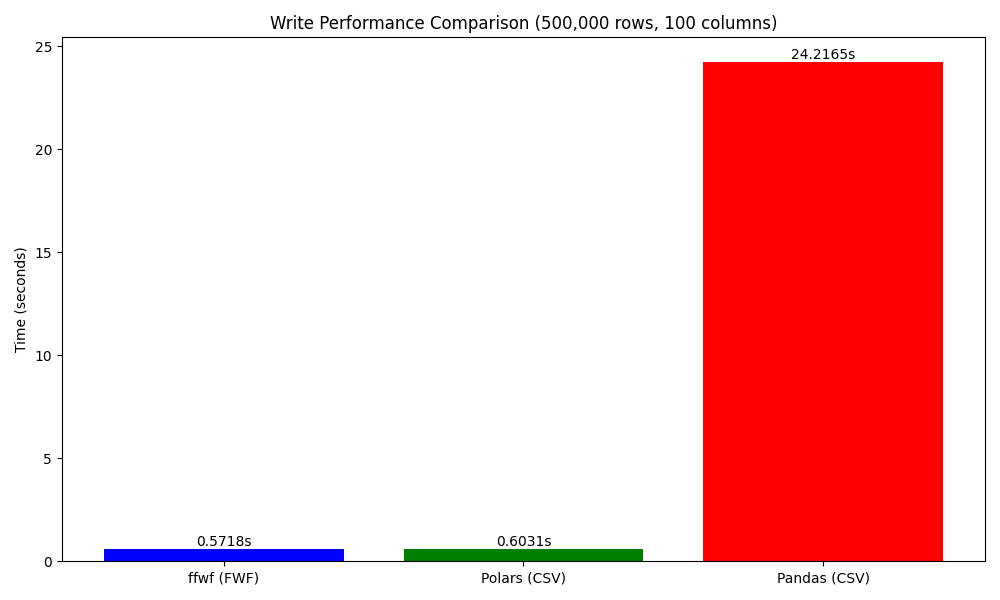
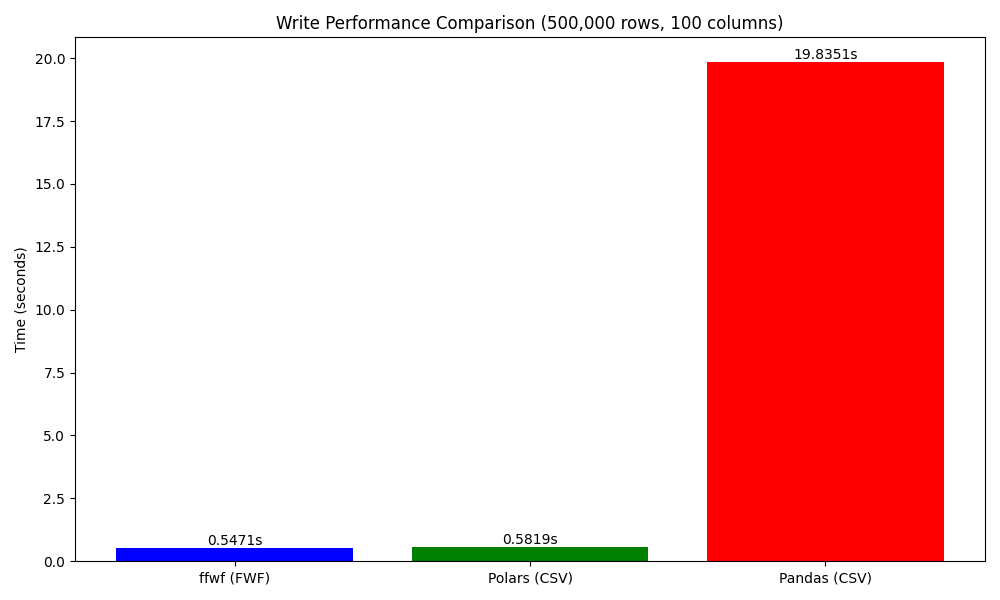
update version

diff --git a/tests/benchmarks/perf_write_comparison.py b/tests/benchmarks/perf_write_comparison.py
@@ -26,6 +26,17 @@ def generate_benchmark_data(num_rows=200_000, num_cols=100):
 
 
 def run_write_benchmark():
+    """
+    Compare ffwf write performance against Polars and Pandas CSV writers.
+    """
+    # Rationale: FWF is structurally simpler than CSV (no delimiters to escape, no complex quoting).
+    # A high-performance FWF writer should theoretically match or exceed the speed of a CSV writer.
+    # We use Polars CSV as the "speed of light" baseline for optimized IO.
+    print("\n--- Write Performance Comparison ---")
+    print("Rationale: FWF is structurally simpler than CSV (no escaping/quoting).")
+    print("A high-performance FWF writer should match or beat Polars' CSV speed.")
+    print("------------------------------------\n")
+
     num_rows = 500_000
     num_cols = 100
     df_pl, df_pd = generate_benchmark_data(num_rows, num_cols)

diff --git a/src/lib.rs b/src/lib.rs
@@ -2,6 +2,7 @@ mod core;
 
 use arrow_array::ffi::{FFI_ArrowArray, FFI_ArrowSchema, from_ffi};
 use arrow_array::{Array, RecordBatch, StructArray};
+use pyo3::PyObject;
 use pyo3::prelude::*;
 use std::fs::File;
 

diff --git a/README.md b/README.md
@@ -1,8 +1,8 @@
 # ffwf (Fast Fwf)
 
-`ffwf` provides a high-performance Fixed-Width File (FWF) parser with a Rust core.
+`ffwf` provides a high-performance Fixed-Width File (FWF) parser and writer with a Rust core.
 
-**🚀 Performance Focus**: By default, `ffwf` only includes `read_fwf_arrow` for zero-copy parsing into PyArrow Tables. Its true power is unlocked through the optional **Polars** integration, enabling streaming and multi-threaded lazy execution that is **~200x faster** than Pandas.
+**🚀 Performance Focus**: `ffwf` is built for speed, achieving **~200x faster reading** and **~40x faster writing** compared to Pandas. It is Arrow-native and integrates seamlessly with Polars.
 
 ## Why Fixed-Width?
 
@@ -14,10 +14,6 @@ While formats like CSV are more common, Fixed-Width Files (FWF) provide a more r
 - **Speed**: Parsing FWF files is faster than CSV due to the fixed schema and lack of delimiters.
 
 `ffwf` brings the reliability of these legacy contracts into modern data ecosystems with native-speed parsing.
-
-## Usage
-
-The core package provides `read_fwf_arrow` for PyArrow. Integration for Polars and Pandas is available via optional modules.
 
 ## Usage
 
@@ -56,24 +52,39 @@ This pattern applies to any library supporting the Arrow interface (DuckDB, Daft
 
 ### Polars (Optional Integration)
 
+Unlock the best performance and streaming capabilities. Polars functions are available directly from `ffwf` if `polars` is installed.
 
-`ffwf` provides high-performance eager (`write_fwf_pl`) and streaming (`sink_fwf_pl`) writers.
+```python
+import polars as pl
+import ffwf as fw
+
+# 1. Define field specifications
+specs = [...]
+
+# 2. Eager parsing (returns pl.DataFrame)
+df = fw.read_fwf_pl("data.fwf", specs)
+
+# 3. Lazy parsing (returns pl.LazyFrame)
+lazy_df = fw.scan_fwf_pl("data.fwf", specs)
+```
+
+## Writing Fixed-Width Files
+
+`ffwf` provides high-performance eager (`write_fwf_pl`, `write_fwf_arrow`) and streaming (`sink_fwf_pl`) writers.
 
 **⚠ Important**: Writing functions do **not** perform automatic validation. If a value exceeds the specified width, it will be **silently truncated**. You should manually call validation functions before writing if you need to ensure data integrity.
 
-### Eager Writing (DataFrame)
+### Eager Writing (Polars/Arrow)
 
 ```python
-# 1. (Optional) Validate data satisfies specs
-violations = fw.validate_specs_pl(df, specs)
-if violations:
-    raise ValueError(f"Validation failed: {violations}")
-
-# 2. Write (truncates if data exceeds width)
+# Write from Polars
 fw.write_fwf_pl(df, "output.fwf", specs=specs)
+
+# Write from Arrow
+fw.write_fwf_arrow(table, "output.fwf", specs=specs)
 ```
 
-### Streaming Writing (LazyFrame)
+### Streaming Writing (Polars)
 
 For large datasets, use `sink_fwf_pl` to write data batch-by-batch without loading the entire frame into memory.
 
@@ -82,32 +93,7 @@ For large datasets, use `sink_fwf_pl` to write data batch-by-batch without loadi
 fw.sink_fwf_pl(lazy_df, "large_output.fwf", decimals=2)
 ```
 
-### Key Writing Features
-
-- **Validation**: Strict width validation before writing. `sink_fwf_pl` reports the exact batch and row range on failure.
-- **Float Rounding**: Floats are rounded to `decimals` to prevent width violations.
-- **Boolean Treatment**: Customizable mapping for booleans (e.g., `bool_treatment=('Y', 'N', ' ')`).
-- **Quote Stripping**: Automatically strips `'` and `"` from strings.
-- **Alignment**: Control string alignment with `pad_str_end`.
-
-### Supported Data Types
-
-Supported `fw.DType` members:
-- **Integers**: `I8`, `I16`, `I32`, `I64`, `U8`, `U16`, `U32`, `U64`
-- **Floats**: `F32`, `F64` (supports `NaN` and `inf`)
-- **Strings**: `String`
-
-## Benchmarks
-
-The following benchmarks compare `ffwf` against `pandas.read_fwf` (v2.2.3) using a synthetic dataset of **200,000 rows and 200 columns (~430MB)**.
-
-| Method | Reading | Pipeline | Aggregation |
-| :--- | :--- | :--- | :--- |
-| **Pandas** | 16.06s | 16.16s | 16.79s |
-| **ffwf (Seq)** | 0.51s | 0.51s | 0.51s |
-| **ffwf (Par)** | **0.09s** | **0.08s** | **0.08s** |
-
-### Write Performance
+### Writing Performance & Benchmarks
 
 We compare `ffwf` write performance against **Polars CSV** and **Pandas CSV**. 
 
@@ -122,6 +108,32 @@ FWF is structurally simpler than CSV (no delimiters to escape, no complex quotin
 
 *ffwf is **~40x faster** than Pandas and achieves parity with Polars' world-class CSV writer by using parallel formatting and vectorized Arrow processing.*
 
+### Key Writing Features
+
+- **Validation**: Strict width validation before writing. `sink_fwf_pl` reports the exact batch and row range on failure.
+- **Float Rounding**: Floats are rounded to `decimals` to prevent width violations.
+- **Boolean Treatment**: Customizable mapping for booleans (e.g., `bool_treatment=('Y', 'N', ' ')`).
+- **Alignment**: Control string alignment with `pad_str_end`.
+
+### Supported Data Types
+
+Supported `fw.DType` members:
+- **Integers**: `I8`, `I16`, `I32`, `I64`, `U8`, `U16`, `U32`, `U64`
+- **Floats**: `F32`, `F64` (supports `NaN` and `inf`)
+- **Strings**: `String`
+
+## Full Reading Benchmarks
+
+The following benchmarks compare `ffwf` against `pandas.read_fwf` (v2.2.3) using a synthetic dataset of **200,000 rows and 200 columns (~430MB)**.
+
+| Method | Reading | Pipeline | Aggregation |
+| :--- | :--- | :--- | :--- |
+| **Pandas** | 16.06s | 16.16s | 16.79s |
+| **ffwf (Seq)** | 0.51s | 0.51s | 0.51s |
+| **ffwf (Par)** | **0.09s** | **0.08s** | **0.08s** |
+
+*Benchmarks conducted on a 16-core machine. ffwf is **~170x faster** than Pandas for pure reading and **~200x faster** for filtered pipelines.*
+
 ### Visualization
 
 #### Reading Benchmark
@@ -133,27 +145,8 @@ FWF is structurally simpler than CSV (no delimiters to escape, no complex quotin
 #### Aggregation Benchmark
 ![Aggregation Benchmark](plots/agg_benchmark.png)
 
-## Integration with Other Dataframe Packages
-
-The core of `ffwf` is designed to be dataframe-agnostic by returning zero-copy PyArrow Tables. If you use a dataframe library other than Polars or Pandas (e.g., DuckDB, Daft, Modin), you can easily integrate it yourself as long as the library supports the [Arrow C Data Interface](https://arrow.apache.org/docs/format/CDataInterface.html).
-
-For a reference implementation, see `ffwf/pandas.py`. The general pattern is:
-
-```python
-import ffwf as fw
-
-# 1. Parse to Arrow Table
-table = fw.read_fwf_arrow("data.fwf", specs)
-
-# 2. Convert to your preferred format (if it supports Arrow)
-# example_df = your_library.from_arrow(table)
-```
-
-**Note**: The package owner does not intend to add built-in support for more dataframe packages.
-
-### Writing FWF
-
-Writing is supported for **Polars** (`write_fwf_pl`, `sink_fwf_pl`), **PyArrow** (`write_fwf_arrow`), and **Pandas** (via Arrow). The core writer is implemented in Rust for maximum performance.
+#### Write Comparison
+![Write Benchmark](plots/write_comparison_benchmark.png)
 
 ## Building Locally
 
@@ -172,10 +165,6 @@ uv pip install -e ".[dev]"
 # Build the Rust extension
 RUSTFLAGS="-C target-cpu=native" maturin develop --release
 ```
-
-## Other Projects
-
-1. My Data Science Extension to Polars [Polars DS](https://github.com/abstractqqq/polars_ds_extension)
 
 ## AI Assistance Disclosure
 
